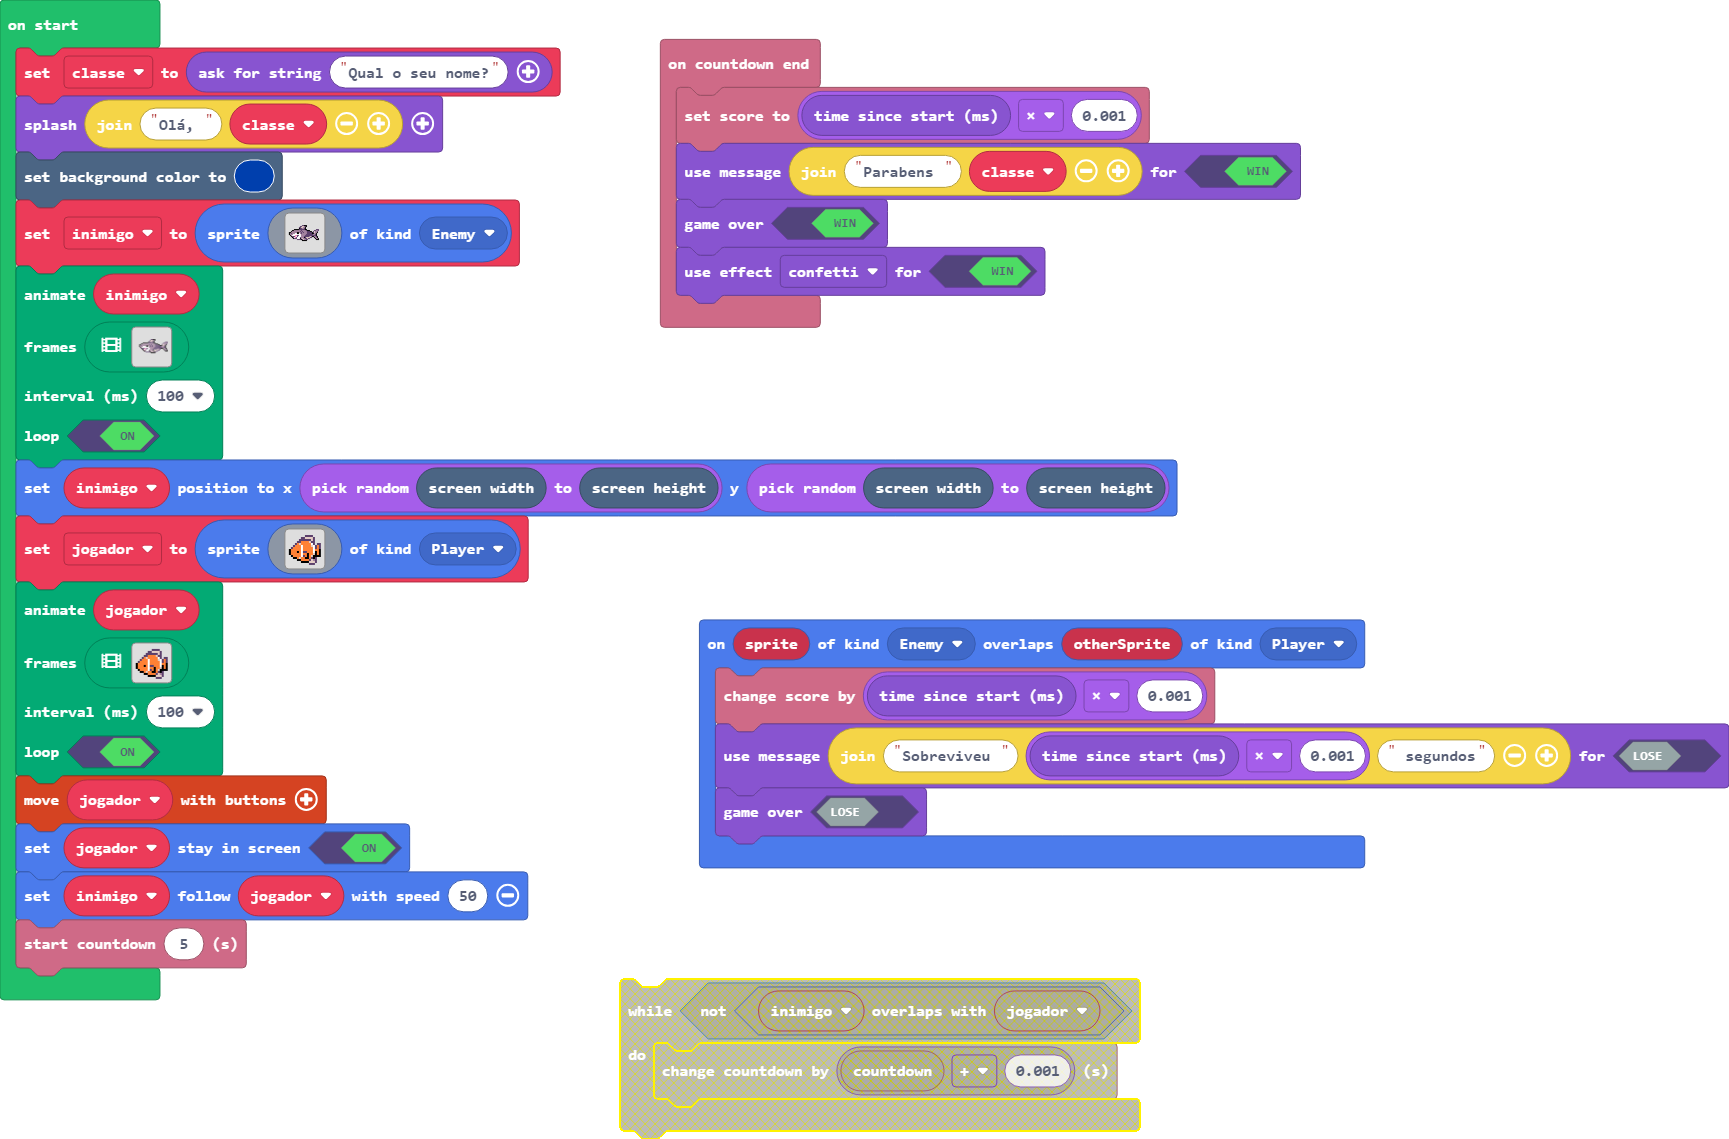
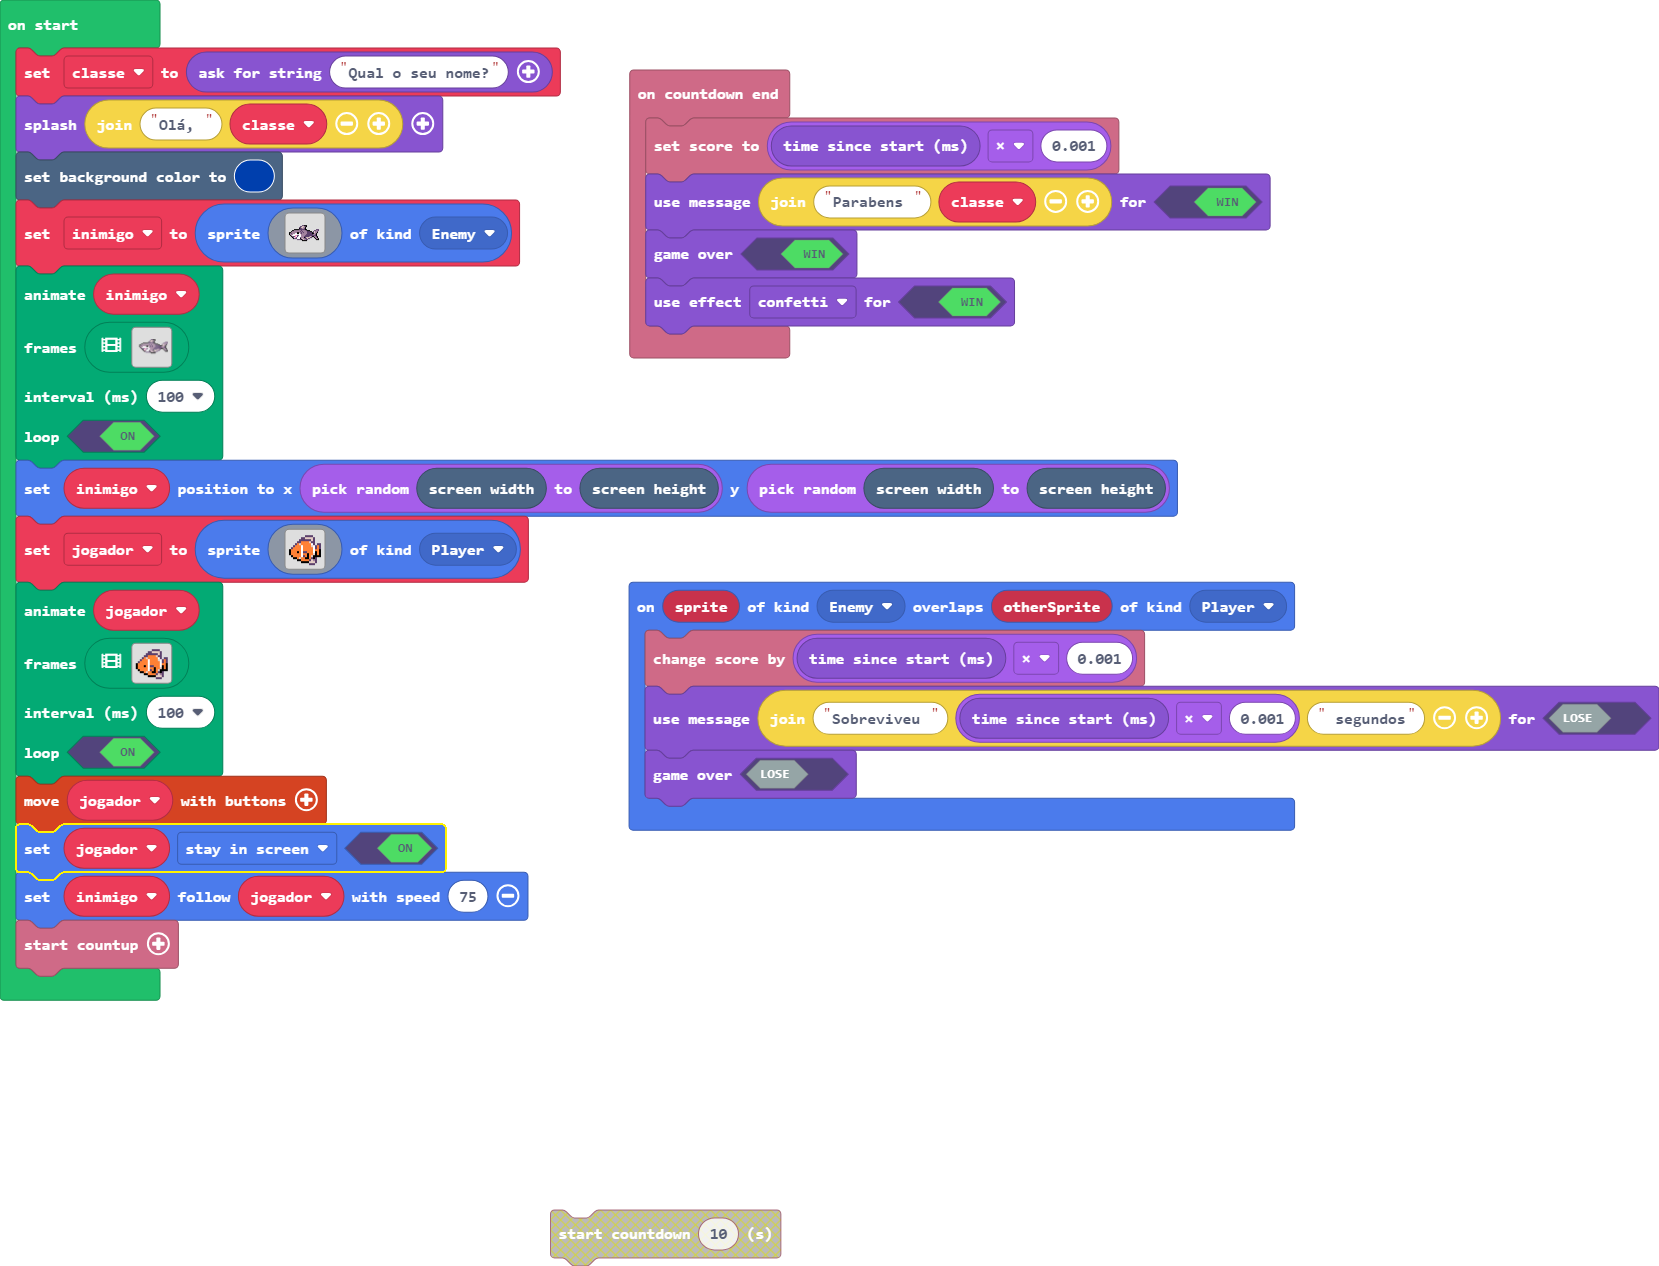
Update pxt.json, main.blocks, main.ts

diff --git a/main.ts b/main.ts
@@ -233,6 +233,6 @@ jogador,
 true
 )
 controller.moveSprite(jogador)
-jogador.setStayInScreen(true)
-inimigo.follow(jogador, 50)
-info.startCountdown(5)
+jogador.setFlag(SpriteFlag.StayInScreen, true)
+inimigo.follow(jogador, 75)
+info.startCountup()
